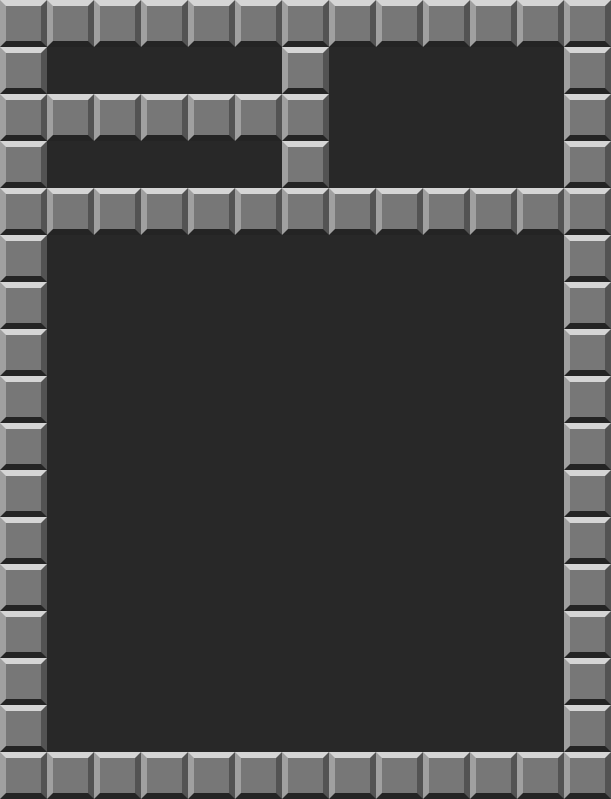
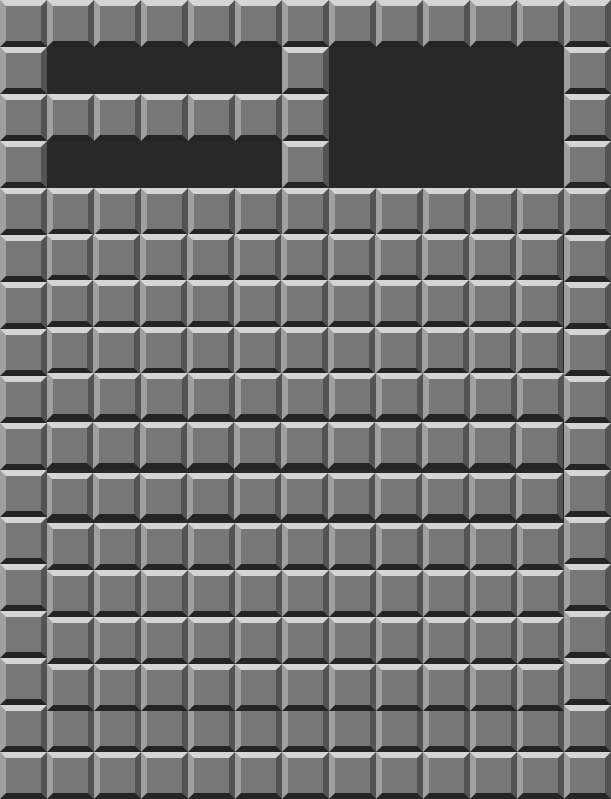
retro 수정

diff --git a/src/components/game2048_components/components/Game/Game.js b/src/components/game2048_components/components/Game/Game.js
@@ -210,7 +210,7 @@ const Game = () =>{
 
     return(
         <GameProvider>
-            <ThemeProvider theme = {legoTheme}>
+            <ThemeProvider theme = {retroTheme}>
                 <Container isMobile={isMobile}>
                     <GameContainer isMobile={isMobile}>
                         <GameHeader/>
